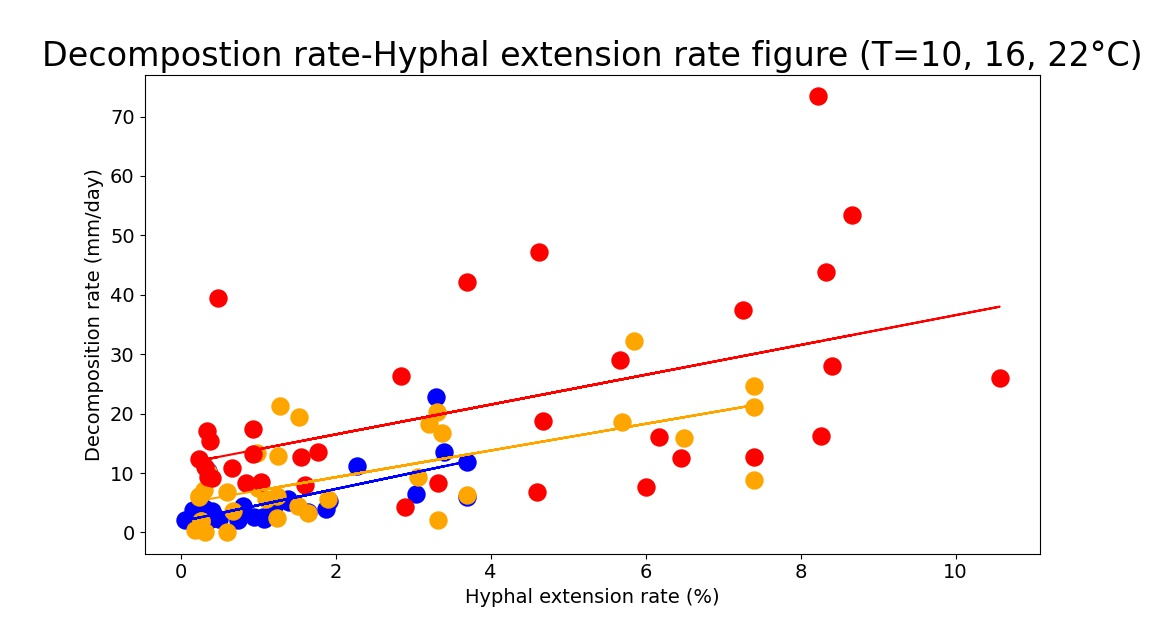
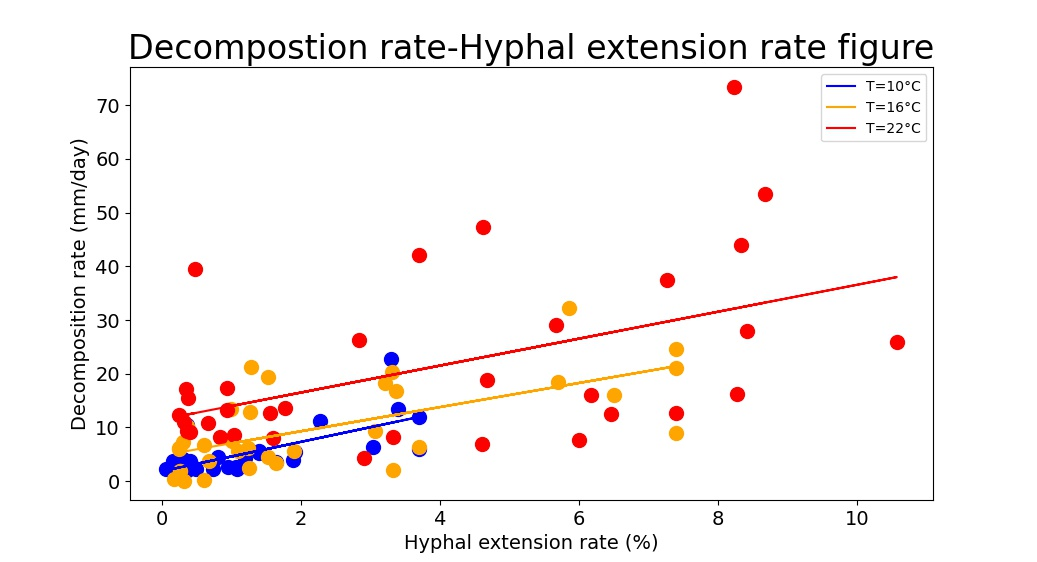
feat: intro

diff --git a/thesis.tex b/thesis.tex
@@ -1,20 +1,20 @@
 \documentclass{mcmthesis}
 \mcmsetup{CTeX = true,   % 使用 CTeX 套装时，设置为 true
-        tcn = 0000, problem = A,
+        tcn = 2115481, problem = A,
         sheet = true, titleinsheet = true, keywordsinsheet = true,
         titlepage = false, abstract = true}
 \usepackage[UTF8]{ctex}
 \usepackage{newtxtext}%\usepackage{palatino}
 \usepackage{lipsum}
 \usepackage{cite}
+\usepackage{url}
 \usepackage[nottoc,notlot,notlof]{tocbibind}
 \title{MCM Thesis}
 \begin{document}
 \begin{abstract}
   Abstract here
 
-\cite{dynamics_of_a_new_SIR_epidemic_model}
-\cite{sutton1980coelomycetes}
+
 \begin{keywords}
 keyword1; keyword2
 \end{keywords}
@@ -34,25 +34,119 @@ keyword1; keyword2
 % \end{memo}
 
 \section{Introduction}
-\subsection{Problem Restatement}
-\subsection{Background Research}
-\subsection{Our Work}
+\subsection{Problem Background}
 
-\section{Preparation of the Models}
-\subsection{Assumptions and Justifications}
+The carbon cycle process is a very vital component of the planet. Part of the carbon cycle process is the decomposition of compounds, allowing carbon to be renewed and used in other forms. A key part of the decomposition of compounds comes from the decomposition of plant material and woody fibers. Some of the key agents in decomposing woody fibers are fungi. Studies have shown that among the many fungi traits, the growth rate of the fungus and the fungus' tolerance to moisture is the growth rate of the fungus and the fungus' tolerance to moisture. There are interesting correlations between fungi traits. And when different types of fungi coexist, they will affect each other. 
+
 \begin{figure}[h]
 \small
 \centering
-\includegraphics[width=8cm]{example-image-a}
-\caption{The name of figure} \label{fig:aa}
+\includegraphics[width=8cm]{carbon_cycle}
+\caption{A simple diagram of parts of the carbon cycle, emphasizing the terrestrial (land-based) parts of the cycle.\cite{carbon_cycle}}
+\label{carbon_cycle}
 \end{figure}
+
+Thus, our team is working to better understand the relationship between traits and the competitive role of different types of fungi coexisting. In addition, it is necessary to consider the possible long-term or short-term effects of various external conditions such as different climates, seasonal changes, sudden weather, etc. 
+
+There are many models for analyzing the relationship between various traits, such as time series, linear regression and so on. Fungi have their relatively suitable temperature, and they are sensitive to the external environment, so the model needs to be robust. For studying how the diversity of fungal communities of a system impacts the overall efficiency of a system, there are methods such as cellular automata for simulation. 
+
+This article studies these effects, based on our proposed model, we make predictions about the relative advantages and disadvantages for each species and combinations of species likely to persist and we realize the importance and the role of biodiversity in the presence of different degrees of variability in the local environment.
+
+\subsection{Restatement of the Problem}
+
+Based on the relevant conclusions in the research article given in the question, our paper should continue to explore and adress the following aspects. 
+
+\begin{itemize}
+  \item \textbf{Problem 1:}
+  Describe the breakdown of ground litter and woody fibers through fungal activity in the presence of multiple species of fungi.
+  \item \textbf{Problem 2:}
+  Incorporate the interactions between different species of fungi, which have different growth rates and different moisture tolerances.
+  \item \textbf{Problem 3:}
+  Describe the interactions between the different types of fungi. The dynamics of the interactions should be characterized and described including both short- and long-term trends. The sensitivity to rapid fluctuations in the environment should be examined and we have to determine the overall impact of changing atmospheric trends to assess the impact of variation of local weather patterns.
+  \item \textbf{Problem 4:}
+  Include predictions about the relative advantages and disadvantages for each species and combinations of species likely to persist, and do so for different environments.
+  \item \textbf{Problem 5:}
+  Describe how the diversity of fungal communities of a system impacts the overall efficiency of a system with respect to the breakdown of ground litter. Predict the importance and role of biodiversity in the presence of different degrees of variability in the local environment.
+\end{itemize}
+
+\subsection{Our Approach}
+
+As the question requires us, our primary goal is to model the decomposition of woody fibers in a given patch of land, and do so in the presence of multiple types of fungi breaking down woody fibers in the same area.
+
+We consider using a linear regression model to analyze the relationship between different traits (mainly focus on the growth rate of the fungus and the fungus' tolerance to moisture and temperature) of fungi, and their impact on the breakdown of ground litter and woody fibers. Since fungus are sensitive to external environment, and considering rapid fluctuations in the environment, we specially select a robust regression algorithm: Theil-Sen Regression. According to our evaluation, it performs much better than least squares method when outliers exist.
+
+Since the growth rate of fungi and the tolerance to moisture need to be considered comprehensively, we integrate this in our model. The relationship between fungal decomposition rate, growth rate and moisture tolerance is obtained by using multiple linear regression algorithm. 
+
+At the same time, we consider that usually different kinds of fungi coexist, and there is a competitive relationship between them. In the end, there may only be one kind of different kinds of fungi that will survive to the end. we describe the interactions between the different types of fungi and estabablishe a competition model, using cellular automata model to simulate the results of competition.
+
+To predict relative advantages and disadvantages for each species and combinations of species likely to persist, we combine models above. By changing the related parameters of temperature and moisture to simulate different environmental conditions, the dual-population competition model is extended to multiple groups, and the cellular automata algorithm is used to simulate the growth of multiple groups of fungi within a certain range. Then we consider the impact of short-term and long-term climate change, and further describe the long-term trend of fungal population changes with climate. 
+
+TODO
+
+\section{Preparation of the Models}
+
+\subsection{Assumptions and Justifications}
+
+By adequate analysis of the problem, to simplify our model, we make the following well-justified assumptions.
+
+\begin{itemize}
+  \item 
+\end{itemize}
+TODO
+
 \subsection{Notations}
 
-\section{Problem 1: Linear regression model}
+For convenience, we introduce some notations below.
+TODO
 
-The basic concept of linear regression model is that the sum of squares of the difference between the actual sampling and the linear prediction sampling reaches the minimum value, that is , the approximation of the minimum mean square error can determine the unique set of predictor coefficients.\cite{}
+\begin{table}[htb]
+  \centering
+  \caption{Notations}
+  \begin{center}
+    \begin{tabular}{cc}
+      \toprule[1.5pt]
+      \makebox[0.3\textwidth][c]{Symbols} & \makebox[0.4\textwidth][c]{Descriptions} \\
+      \midrule[1pt]
+      a & b \\
+      x & y \\
+      \bottomrule[1.5pt]
+    \end{tabular}
+  \end{center}
+\end{table}
 
-\subsection{The fundamentals of linear regression}
+\section{Problem 1: Single-factor Regression Model}
+
+\subsection{Feature Selection}
+
+In the decomposition process of ground litter and woody fibers, there are usually many kinds of fungi that work together. The quantification of the decomposition process can be described by the decomposition rate $ d $. For dead branches and leaves with a mass of $ M $, the total mass may change after the time $ t $. At any moment, its decomposition rate can be expressed as: 
+
+\begin{equation}
+  d=\frac{\delta M}{\delta t}
+\end{equation}
+
+For a given piece of land, the decomposition rate of fungi varies with the various traits of different types of fungi. In order to get the change trend of the decomposition rate and each trait first, we temporarily ignore the specific value and convert the original value into a sorted label to describe the corresponding size relationship. According to the data set, for each trait $ x $ and decomposition rate $ y $, the Spearman coefficient $ \rho $ is calculated, the algorithm is as follows: 
+
+\begin{equation}
+  \rho=\frac{\sum_{i}\left(x_{i}-\bar{x}\right)\left(y_{i}-\bar{y}\right)}{\sqrt{\sum_{i}\left(x_{i}-\bar{x}\right)^{2} \sum_{i}\left(y_{i}-\bar{y}\right)^{2}}}
+\end{equation}
+
+We sort the calculation results corresponding to each trait according to the Spearman coefficient. 
+
+\begin{figure}[h]
+  \small
+  \centering
+  \includegraphics[width=12cm]{growth_eco_traits}
+  \caption{The spearman correlation of different growth and ecological preformance traits}
+  \label{growth_eco_traits}
+\end{figure}
+
+The results show that the growth rate and moisture tolerance of fungi are closely related to the decomposition process. 
+
+Below, based on the decomposition data of 34 species of single fungus populations collected under the condition of coexistence of multiple fungi, we will regression and predict the decomposition rate of fungi, focusing on the growth rate of a single type of hyphae The relationship with decomposition rate, and the relationship between hyphae's moisture resistance and decomposition rate. 
+
+\subsection{The Fundamentals of Linear Regression}
+
+The basic concept of linear regression model is that the sum of squares of the difference between the actual sampling and the linear prediction sampling reaches the minimum value, that is , the approximation of the minimum mean square error can determine the unique set of predictor coefficients.\cite{cao2009linear}
 
 In the process of model parameter estimation, the following systems is called linear predictor.
 
@@ -152,6 +246,22 @@ We represent (\ref{alg_f}) as a matrix.
   r_{x}(p)
   \end{array}\right)
 \end{equation}
+
+\subsection{Decompostion Rate and Moisture Relationship}
+
+We normalize the size of the optimal moisture range of fungus as the abscissa, $ \text {mo}=\frac{2 \times \text {width }}{\text {maxwidth }}-1 $. The zero point is the center, -1 means the fungus has the strongest moisture adaptability, and 1 means the fungus has the narrowest suitable moisture range. Plotting a scatter plot shows that the moisture resistance and decomposition rate are negatively correlated. Combining the decomposition rate of various fungi with different moisture adaptability under the same experimental conditions, using one-variable linear regression, the linear equation obtained is 
+
+\begin{equation}
+  \log {d}=1.00mo+1.74,R^2=0.3981
+\end{equation}
+
+That is
+
+\begin{equation}
+  {d}=10 ^{1.00mo+1.74}
+\end{equation}
+
+It indicates that the greater the $mo $, the worse the adaptability of the fungus and the greater the decomposition rate. It also shows that the ability of fungi to adapt to moisture is negatively related to the decomposition rate. 
 
 
 \section{Sensitivity Evaluation of the Model}

diff --git a/code/extension_decomposition_temp.py b/code/extension_decomposition_temp.py
@@ -9,10 +9,30 @@ print(param)
 p = np.poly1d(param)
 coefficient_of_dermination = r2_score(decomp_10, p(extent_10))
 print(coefficient_of_dermination)
-plt.plot(extent_10, p(extent_10), c='red')
+plt.plot(extent_10, p(extent_10), c='blue', label='T=10 degree')
 plt.scatter(extent_10, decomp_10, s=100, c='blue')
+
+extent_16, decomp_16=load_data(16)
+param = np.polyfit(extent_16, decomp_16, 1)
+print(param)
+p = np.poly1d(param)
+coefficient_of_dermination = r2_score(decomp_16, p(extent_16))
+print(coefficient_of_dermination)
+plt.plot(extent_16, p(extent_16), c='orange', label='T=16 degree')
+plt.scatter(extent_16, decomp_16, s=100, c='orange')
+
+extent_22, decomp_22=load_data(22)
+param = np.polyfit(extent_22, decomp_22, 1)
+print(param)
+p = np.poly1d(param)
+coefficient_of_dermination = r2_score(decomp_22, p(extent_22))
+print(coefficient_of_dermination)
+plt.plot(extent_22, p(extent_22), c='red', label='T=22 degree')
+plt.scatter(extent_22, decomp_22, s=100, c='red')
+
 plt.title('Decompostion rate-Hyphal extension rate figure', fontsize=24)
 plt.xlabel('Hyphal extension rate (%)', fontsize=14)
 plt.ylabel('Decomposition rate (mm/day)', fontsize=14)
 plt.tick_params(axis='both', which='major', labelsize=14)
+plt.legend()
 plt.show()

diff --git a/code/normal_distrib_3dim.py b/code/normal_distrib_3dim.py
@@ -1,0 +1,27 @@
+import numpy as np
+import matplotlib.pyplot as plt
+from scipy.stats import multivariate_normal
+from mpl_toolkits.mplot3d import Axes3D
+
+#Parameters to set
+mu_x = 0
+variance_x = 3
+mu_y = 0
+variance_y = 15
+
+#Create grid and multivariate normal
+x = np.linspace(-10,10,500)
+y = np.linspace(-10,10,500)
+X, Y = np.meshgrid(x,y)
+pos = np.empty(X.shape + (2,))
+pos[:, :, 0] = X; pos[:, :, 1] = Y
+rv = multivariate_normal([mu_x, mu_y], [[variance_x, 0], [0, variance_y]])
+
+#Make a 3D plot
+fig = plt.figure()
+ax = fig.gca(projection='3d')
+ax.plot_surface(X, Y, rv.pdf(pos),cmap='viridis',linewidth=0)
+ax.set_xlabel('X axis')
+ax.set_ylabel('Y axis')
+ax.set_zlabel('Z axis')
+plt.show()
